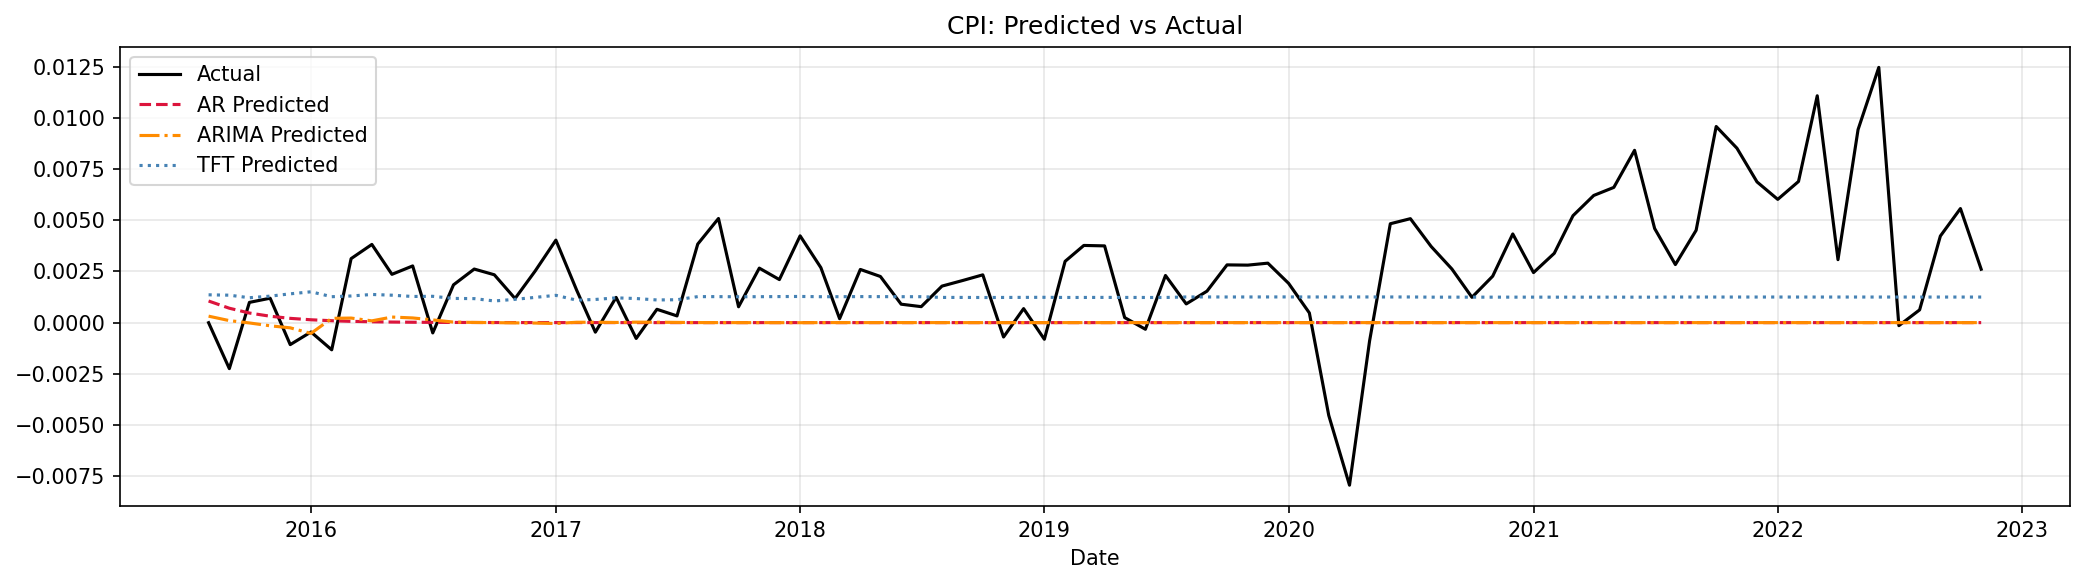
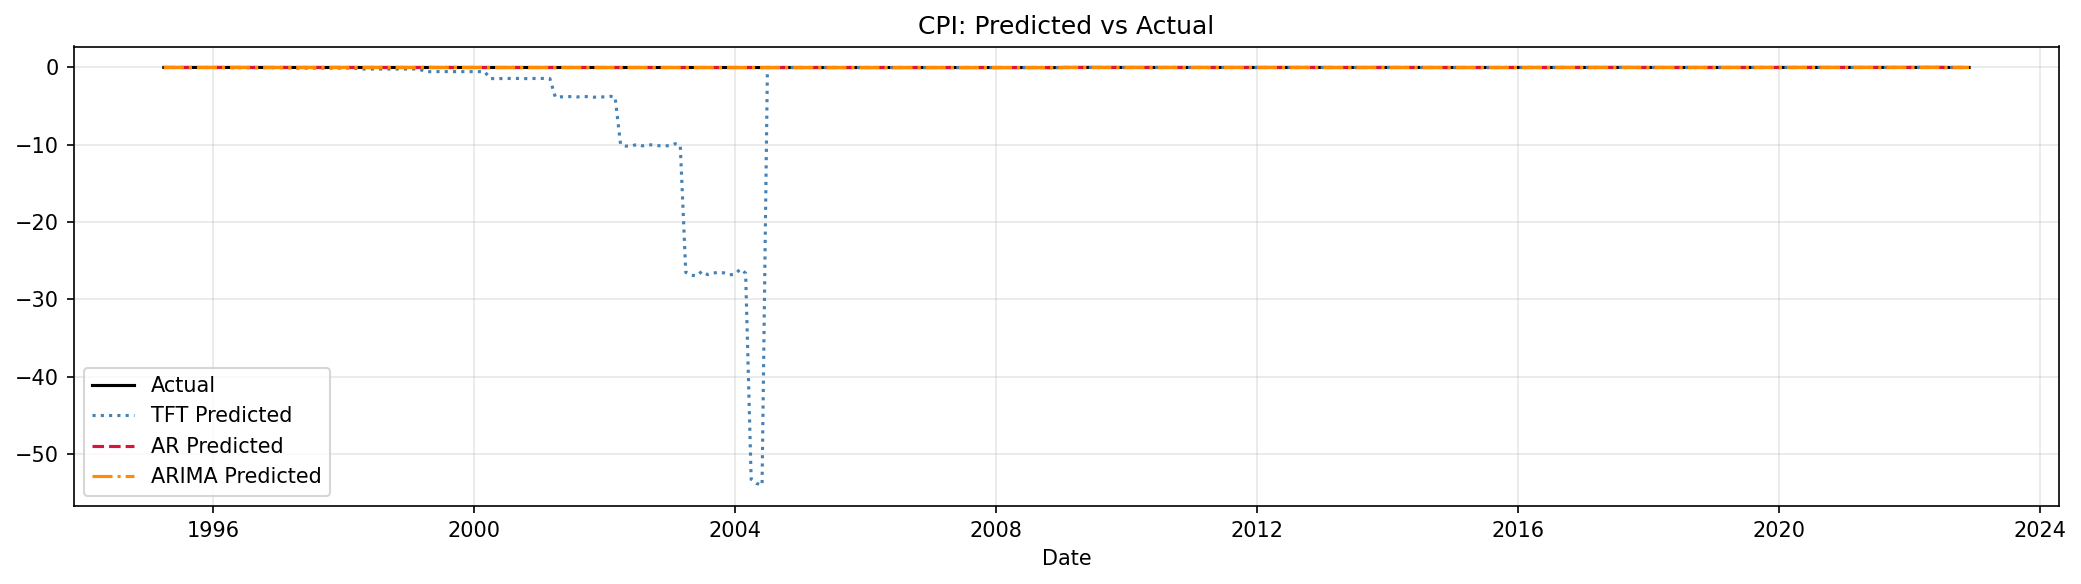
add ablation study file with per-run output folders, option to turn off baseline

diff --git a/src/holdout-validation/run_ablation.py b/src/holdout-validation/run_ablation.py
@@ -1,0 +1,124 @@
+#!/usr/bin/env python3
+"""
+Ablation study runner — calls main.py for each experiment configuration
+and saves results individually + appends to a master experiments.csv.
+
+Usage:
+    python src/holdout-validation/run_ablation.py
+    python src/holdout-validation/run_ablation.py --device cuda
+    python src/holdout-validation/run_ablation.py --targets CPI  # quick test
+"""
+import argparse
+import subprocess
+import sys
+from pathlib import Path
+
+# ── experiment configurations ─────────────────────────────────────────────────
+EXPERIMENTS = [
+    # macro-only baseline
+    {
+        "run_name":    "macro_only",
+        "embedding":   None,
+        "aggregation": "mean",
+    },
+    # fomc-roberta embeddings
+    {
+        "run_name":    "fomc_roberta_mean",
+        "embedding":   "fomc-roberta",
+        "aggregation": "mean",
+    },
+    {
+        "run_name":    "fomc_roberta_decay",
+        "embedding":   "fomc-roberta",
+        "aggregation": "decay",
+    },
+    {
+        "run_name":    "fomc_roberta_context_attention",
+        "embedding":   "fomc-roberta",
+        "aggregation": "context_attention",
+    },
+    # finbert embeddings
+    {
+        "run_name":    "finbert_mean",
+        "embedding":   "finbert",
+        "aggregation": "mean",
+    },
+    {
+        "run_name":    "finbert_decay",
+        "embedding":   "finbert",
+        "aggregation": "decay",
+    },
+    {
+        "run_name":    "finbert_context_attention",
+        "embedding":   "finbert",
+        "aggregation": "context_attention",
+    },
+    # kafka variants
+    {
+        "run_name":    "fomc_roberta_kafka_decay",
+        "embedding":   "fomc-roberta-kafka",
+        "aggregation": "decay",
+    },
+    {
+        "run_name":    "finbert_kafka_decay",
+        "embedding":   "finbert-kafka",
+        "aggregation": "decay",
+    },
+]
+
+
+def main():
+    parser = argparse.ArgumentParser(description="Ablation study runner")
+    parser.add_argument("--device",  default="cpu", choices=["cpu", "mps", "cuda"])
+    parser.add_argument("--targets", nargs="+", default=["CPI", "UNRATE", "GDP"])
+    parser.add_argument("--horizon", type=int, default=12)
+    parser.add_argument("--no-baselines", action="store_true", default=False)
+    parser.add_argument(
+        "--runs", nargs="+", default=None,
+        help="Only run specific experiments by run_name (default: all)"
+    )
+    args = parser.parse_args()
+
+    main_script = Path(__file__).parent / "main.py"
+    
+    experiments = EXPERIMENTS
+    if args.runs:
+        experiments = [e for e in EXPERIMENTS if e["run_name"] in args.runs]
+        print(f"Running {len(experiments)} selected experiments: {[e['run_name'] for e in experiments]}")
+    else:
+        print(f"Running {len(experiments)} experiments...")
+
+    for i, exp in enumerate(experiments):
+        run_name = exp["run_name"]
+        print(f"\n{'═' * 60}")
+        print(f" Experiment {i+1}/{len(experiments)}: {run_name}")
+        print(f"{'═' * 60}")
+
+        cmd = [
+            sys.executable, str(main_script),
+            "--targets",    *args.targets,
+            "--device",     args.device,
+            "--horizon",    str(args.horizon),
+            "--run-name",   run_name,
+            "--aggregation", exp["aggregation"],
+        ]
+        if exp["embedding"]:
+            cmd += ["--embedding", exp["embedding"]]
+        if args.no_baselines:
+            cmd += ["--no-baselines"]
+
+        print(f"Command: {' '.join(cmd)}\n")
+        result = subprocess.run(cmd)
+        
+        if result.returncode != 0:
+            print(f"WARNING: experiment {run_name} failed with return code {result.returncode}")
+            print("Continuing to next experiment...")
+
+    print(f"\n{'═' * 60}")
+    print("All experiments complete!")
+    print(f"Results saved to out/holdout/experiments.csv")
+    print(f"{'═' * 60}")
+
+
+if __name__ == "__main__":
+    main()

diff --git a/src/holdout-validation/main.py b/src/holdout-validation/main.py
@@ -59,27 +59,39 @@ def compute_metrics(df: pd.DataFrame) -> dict:
 
 # ── save ─────────────────────────────────────────────────────────────────────
 
-def save_results(results: dict, out_dir: Path) -> pd.DataFrame:
+def save_results(results: dict, out_dir: Path, run_name="default", embedding="none", aggregation="mean") -> pd.DataFrame:
     """Save per-fold CSVs + per-fold metrics + fold-averaged metrics."""
     out_dir.mkdir(parents=True, exist_ok=True)
+    # allow to save results from different runs
+    run_dir = out_dir / run_name
+    run_dir.mkdir(parents=True, exist_ok=True)
+    
     rows = []
     for model, fold_res in results.items():
         for fold, target_res in fold_res.items():
             for target, df in target_res.items():
-                df.to_csv(out_dir / f"{model.lower()}_{target.lower()}_fold{fold}_predictions.csv", index=False)
+                df.to_csv(run_dir  / f"{model.lower()}_{target.lower()}_fold{fold}_predictions.csv", index=False)
                 m = compute_metrics(df)
                 rows.append({"model": model, "fold": fold, "target": target, **m})
 
     metrics_df = pd.DataFrame(rows)[["model", "fold", "target", "MAE", "RMSE", "MAPE"]]
     metrics_df = metrics_df.sort_values(by=["target", "model", "fold"]).reset_index(drop=True)
-    metrics_df.to_csv(out_dir / "metrics_per_fold.csv", index=False)
+    metrics_df.to_csv(run_dir  / "metrics_per_fold.csv", index=False)
 
     avg_df = (
         metrics_df.groupby(["model", "target"])[["MAE", "RMSE", "MAPE"]]
         .mean().round(4).reset_index()
         .sort_values(by=["target", "model"]).reset_index(drop=True)
     )
-    avg_df.to_csv(out_dir / "metrics.csv", index=False)
+    # append to master experiments file
+    avg_df["run_name"]    = run_name
+    avg_df["embedding"]   = embedding
+    avg_df["aggregation"] = aggregation
+    avg_df["timestamp"]   = pd.Timestamp.now().strftime("%Y-%m-%d %H:%M")
+    
+    master_path = out_dir / "experiments.csv"
+    
+    avg_df.to_csv(master_path, mode="a", header=not master_path.exists(), index=False)
 
     print("\n=== Evaluation Metrics (per fold) ===")
     print(metrics_df.to_string(index=False))
@@ -90,7 +102,7 @@ def save_results(results: dict, out_dir: Path) -> pd.DataFrame:
 
 # ── plot ──────────────────────────────────────────────────────────────────────
 
-def plot_results(results: dict, out_dir: Path):
+def plot_results(results: dict, out_dir: Path, run_name: str = "default"):
     # collect all targets across all folds
     targets = sorted({t for fold_res in results.values() for tr in fold_res.values() for t in tr})
     _, axes = plt.subplots(len(targets), 1, figsize=(14, 4 * len(targets)), squeeze=False)
@@ -126,7 +138,9 @@ def plot_results(results: dict, out_dir: Path):
         ax.grid(alpha=0.3)
 
     plt.tight_layout()
-    path = out_dir / "predictions_vs_actuals.png"
+    run_dir = out_dir / run_name
+    run_dir.mkdir(parents=True, exist_ok=True)
+    path = run_dir / "predictions_vs_actuals.png"
     plt.savefig(path, bbox_inches="tight", dpi=150)
     plt.close()
     print(f"Plot saved → {path}")
@@ -139,6 +153,13 @@ def main():
     parser = argparse.ArgumentParser(
         description="Holdout validation pipeline: AR(1) benchmark vs TFT"
     )
+    
+    # add a parser so that we do not need to rerun baselines all the time haha
+    parser.add_argument(
+        "--no-baselines", action="store_true", default=False,
+        help="Skip AR and ARIMA baselines, only run TFT",
+    )
+    
     parser.add_argument(
         "--targets", nargs="+", default=MAIN_TARGETS,
         choices=MAIN_TARGETS, metavar="TARGET",
@@ -167,6 +188,13 @@ def main():
         "--horizon", type=int, default=12, choices=[1, 6, 9, 12],
         help="Forecast horizon in months (default: 12)",
     )
+    
+    # to save runs individually
+    parser.add_argument(
+        "--run-name", default="default",
+        help="Unique name for this run (used for output subfolder)",
+    )
+    
     args = parser.parse_args()
 
     # make sure that there is no sneaky cuda being used 
@@ -216,11 +244,10 @@ def main():
     tft_runner   = TFTRunner(dfb)
 
     # results[model][fold_num][target] = predictions DataFrame
-    results: dict[str, dict[int, dict[str, pd.DataFrame]]] = {
-        "AR":    {s["fold"]: {} for s in splits},
-        "ARIMA": {s["fold"]: {} for s in splits},
-        "TFT":   {s["fold"]: {} for s in splits},
-    }
+    results = {"TFT": {s["fold"]: {} for s in splits}}
+    if not args.no_baselines:
+        results["AR"]    = {s["fold"]: {} for s in splits}
+        results["ARIMA"] = {s["fold"]: {} for s in splits}
 
     # ── 2. run all models for each fold × target ──────────────────────────────
     for fold_idx, s in enumerate(splits):
@@ -230,17 +257,18 @@ def main():
             print(f" Fold {fold_num} | Target: {target}")
             print(f"{'─' * 55}")
 
-            print("\n[AR]")
-            ar_order, ar_seasonal = ar_runner.run(splits, target=target, fold=fold_idx)
-            ar_df = ar_runner.predict(splits, target=target, fold=fold_idx, step=args.horizon)
-            results["AR"][fold_num][target] = ar_df
-            print(f"  → {len(ar_df)} predictions (order={ar_order}, seasonal={ar_seasonal})")
+            if not args.no_baselines:
+                print("\n[AR]")
+                ar_order, ar_seasonal = ar_runner.run(splits, target=target, fold=fold_idx)
+                ar_df = ar_runner.predict(splits, target=target, fold=fold_idx, step=args.horizon)
+                results["AR"][fold_num][target] = ar_df
+                print(f"  → {len(ar_df)} predictions (order={ar_order}, seasonal={ar_seasonal})")
 
-            print("\n[ARIMA]")
-            arima_order, arima_seasonal = arima_runner.run(splits, target=target, fold=fold_idx)
-            arima_df = arima_runner.predict(splits, target=target, fold=fold_idx, step=args.horizon)
-            results["ARIMA"][fold_num][target] = arima_df
-            print(f"  → {len(arima_df)} predictions (order={arima_order}, seasonal={arima_seasonal})")
+                print("\n[ARIMA]")
+                arima_order, arima_seasonal = arima_runner.run(splits, target=target, fold=fold_idx)
+                arima_df = arima_runner.predict(splits, target=target, fold=fold_idx, step=args.horizon)
+                results["ARIMA"][fold_num][target] = arima_df
+                print(f"  → {len(arima_df)} predictions (order={arima_order}, seasonal={arima_seasonal})")
 
             print("\n[TFT – training]")
             ckpt = tft_runner.run(
@@ -262,10 +290,13 @@ def main():
             print(f"  → {len(tft_df)} predictions")
 
     # ── 3. save predictions vs. actuals, calculate eval metrics ──────────────
-    save_results(results, out_dir)
+    save_results(results, out_dir, 
+             run_name=args.run_name,
+             embedding=args.embedding or "none",
+             aggregation=args.aggregation)
 
     # ── 4. plot results ───────────────────────────────────────────────────────
-    plot_results(results, out_dir)
+    plot_results(results, out_dir, run_name=args.run_name)
 
 
 if __name__ == "__main__":